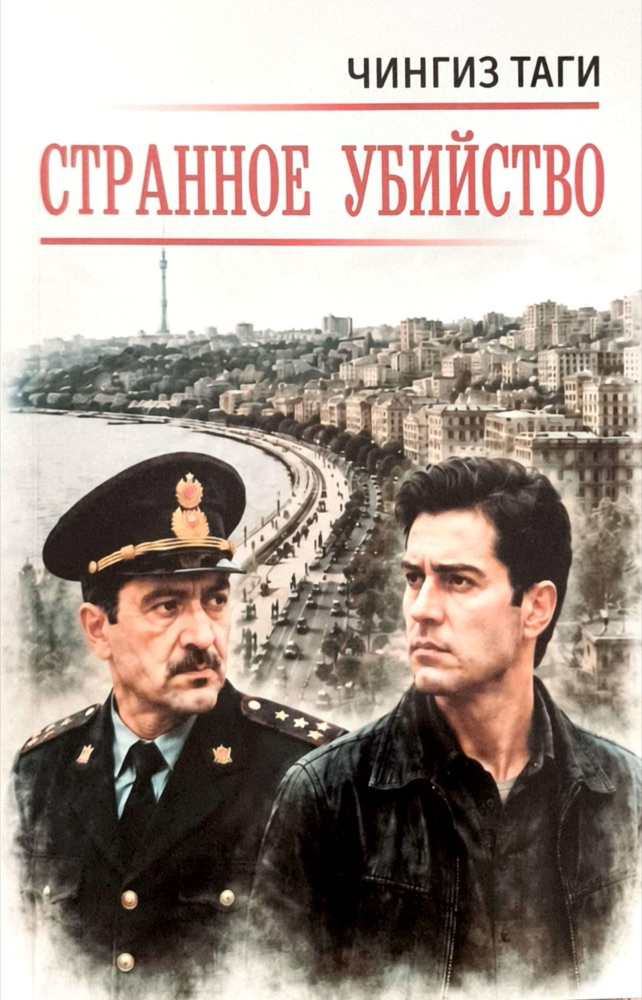
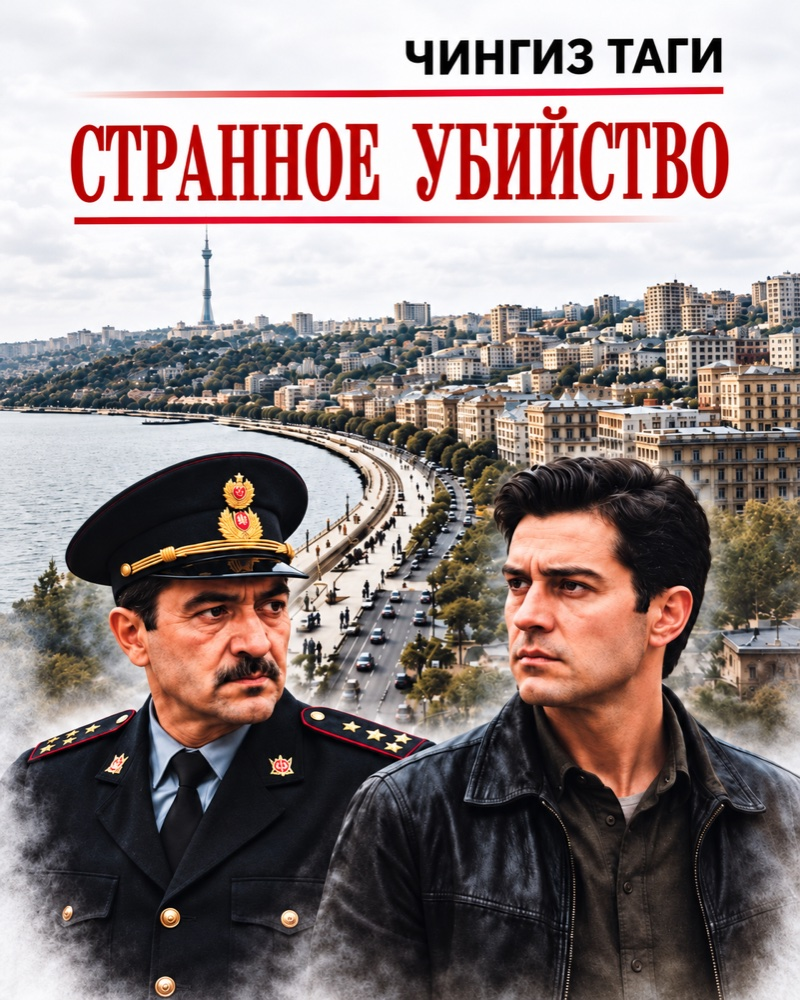
New covers: История одной войны (AZ + RU) and Странное убийство

diff --git a/ru/books/istoriya-odnoy-voyny.html b/ru/books/istoriya-odnoy-voyny.html
@@ -15,7 +15,7 @@
 <meta property="og:description" content="История одной войны — исторический роман, охватывающий период с 1828 года, когда впервые армянские переселенцы прибыли в Азербайджан, по 2023 год. В книге рассказывается о том, как изменилась спокойная жизнь азербайджанского народа с их…">
 <meta property="og:url" content="https://chingiztaghi.netlify.app/ru/books/istoriya-odnoy-voyny">
 <meta property="og:locale" content="ru">
-<meta property="og:image" content="https://chingiztaghi.netlify.app/assets/covers/istoriya-odnoy-voyny-ru.jpg?v=f1bf1bb5">
+<meta property="og:image" content="https://chingiztaghi.netlify.app/assets/covers/istoriya-odnoy-voyny-ru.jpg?v=afbe19a8">
 <meta name="twitter:card" content="summary_large_image">
 <meta name="google-site-verification" content="Zv4KcSWtK4rWaxfy-zp3f7aHRy0XpEZRDrQgy4bXWNc" />
 <link rel="icon" href="../../assets/img/favicon.svg" type="image/svg+xml">
@@ -25,7 +25,7 @@
 <link rel="stylesheet" href="../../assets/css/nocturne.css?v=fa412bc8">
 <link rel="stylesheet" href="../../assets/css/site.css?v=fa412bc8">
 <script src="../../assets/js/carousel.js?v=e8d14b1a" defer></script>
-<script type="application/ld+json">{"@context":"https://schema.org","@type":"Book","name":"История одной войны","genre":"Исторический роман","datePublished":"2024","inLanguage":["az","ru"],"image":"https://chingiztaghi.netlify.app/assets/covers/istoriya-odnoy-voyny-ru.jpg?v=f1bf1bb5","author":{"@type":"Person","name":"Чингиз Таги"}}</script>
+<script type="application/ld+json">{"@context":"https://schema.org","@type":"Book","name":"История одной войны","genre":"Исторический роман","datePublished":"2024","inLanguage":["az","ru"],"image":"https://chingiztaghi.netlify.app/assets/covers/istoriya-odnoy-voyny-ru.jpg?v=afbe19a8","author":{"@type":"Person","name":"Чингиз Таги"}}</script>
 </head>
 <body>
 <header class="site-header">
@@ -50,7 +50,7 @@
 <main>
 <section class="wrap section split">
   <div class="split-media">
-    <div class="book-cover"><img src="../../assets/covers/istoriya-odnoy-voyny-ru.jpg?v=f1bf1bb5" alt="История одной войны"></div>
+    <div class="book-cover"><img src="../../assets/covers/istoriya-odnoy-voyny-ru.jpg?v=afbe19a8" alt="История одной войны"></div>
     <dl class="facts">
             <div class="fact-row"><dt>Год издания</dt><dd>2024</dd></div>
             <div class="fact-row"><dt>Язык</dt><dd>азербайджанский, русский</dd></div>

diff --git a/ru/books/strannoe-ubiystvo.html b/ru/books/strannoe-ubiystvo.html
@@ -15,7 +15,7 @@
 <meta property="og:description" content="Роман «Странное убийство» повествует о тяжёлой судьбе бывшего воина-десантника, прошедшего самые горячие точки войны в Афганистане, а затем попавшего в тюрьму по надуманному обвинению и судебной ошибке. По воле судьбы, бывший десантник, после…">
 <meta property="og:url" content="https://chingiztaghi.netlify.app/ru/books/strannoe-ubiystvo">
 <meta property="og:locale" content="ru">
-<meta property="og:image" content="https://chingiztaghi.netlify.app/assets/covers/strannoe-ubiystvo.jpg?v=efda330e">
+<meta property="og:image" content="https://chingiztaghi.netlify.app/assets/covers/strannoe-ubiystvo.jpg?v=5bb5776b">
 <meta name="twitter:card" content="summary_large_image">
 <meta name="google-site-verification" content="Zv4KcSWtK4rWaxfy-zp3f7aHRy0XpEZRDrQgy4bXWNc" />
 <link rel="icon" href="../../assets/img/favicon.svg" type="image/svg+xml">
@@ -25,7 +25,7 @@
 <link rel="stylesheet" href="../../assets/css/nocturne.css?v=fa412bc8">
 <link rel="stylesheet" href="../../assets/css/site.css?v=fa412bc8">
 <script src="../../assets/js/carousel.js?v=e8d14b1a" defer></script>
-<script type="application/ld+json">{"@context":"https://schema.org","@type":"Book","name":"Странное убийство","genre":"Детективный роман","datePublished":"2026","inLanguage":["ru"],"image":"https://chingiztaghi.netlify.app/assets/covers/strannoe-ubiystvo.jpg?v=efda330e","author":{"@type":"Person","name":"Чингиз Таги"}}</script>
+<script type="application/ld+json">{"@context":"https://schema.org","@type":"Book","name":"Странное убийство","genre":"Детективный роман","datePublished":"2026","inLanguage":["ru"],"image":"https://chingiztaghi.netlify.app/assets/covers/strannoe-ubiystvo.jpg?v=5bb5776b","author":{"@type":"Person","name":"Чингиз Таги"}}</script>
 </head>
 <body>
 <header class="site-header">
@@ -50,7 +50,7 @@
 <main>
 <section class="wrap section split">
   <div class="split-media">
-    <div class="book-cover"><img src="../../assets/covers/strannoe-ubiystvo.jpg?v=efda330e" alt="Странное убийство"></div>
+    <div class="book-cover"><img src="../../assets/covers/strannoe-ubiystvo.jpg?v=5bb5776b" alt="Странное убийство"></div>
     <dl class="facts">
             <div class="fact-row"><dt>Год издания</dt><dd>2026</dd></div>
             <div class="fact-row"><dt>Язык</dt><dd>русский</dd></div>

diff --git a/books/istoriya-odnoy-voyny.html b/books/istoriya-odnoy-voyny.html
@@ -15,7 +15,7 @@
 <meta property="og:description" content="«Bir müharibənin hekayəsi» erməni köçkünlərinin Azərbaycana ilk gəlişi olan 1828-ci ildən 2023-cü ilə qədər olan dövrü əhatə edən tarixi romandır. Kitabda iki yüz ilə yaxın müddət ərzində Azərbaycan xalqının dinc həyatının ermənilərin…">
 <meta property="og:url" content="https://chingiztaghi.netlify.app/books/istoriya-odnoy-voyny">
 <meta property="og:locale" content="az">
-<meta property="og:image" content="https://chingiztaghi.netlify.app/assets/covers/istoriya-odnoy-voyny-az.jpg?v=88686f78">
+<meta property="og:image" content="https://chingiztaghi.netlify.app/assets/covers/istoriya-odnoy-voyny-az.jpg?v=abc6a560">
 <meta name="twitter:card" content="summary_large_image">
 <meta name="google-site-verification" content="Zv4KcSWtK4rWaxfy-zp3f7aHRy0XpEZRDrQgy4bXWNc" />
 <link rel="icon" href="../assets/img/favicon.svg" type="image/svg+xml">
@@ -25,7 +25,7 @@
 <link rel="stylesheet" href="../assets/css/nocturne.css?v=fa412bc8">
 <link rel="stylesheet" href="../assets/css/site.css?v=fa412bc8">
 <script src="../assets/js/carousel.js?v=e8d14b1a" defer></script>
-<script type="application/ld+json">{"@context":"https://schema.org","@type":"Book","name":"Bir müharibənin hekayəsi","genre":"Tarixi roman","datePublished":"2024","inLanguage":["az","ru"],"image":"https://chingiztaghi.netlify.app/assets/covers/istoriya-odnoy-voyny-az.jpg?v=88686f78","author":{"@type":"Person","name":"Çingiz Tağı"}}</script>
+<script type="application/ld+json">{"@context":"https://schema.org","@type":"Book","name":"Bir müharibənin hekayəsi","genre":"Tarixi roman","datePublished":"2024","inLanguage":["az","ru"],"image":"https://chingiztaghi.netlify.app/assets/covers/istoriya-odnoy-voyny-az.jpg?v=abc6a560","author":{"@type":"Person","name":"Çingiz Tağı"}}</script>
 </head>
 <body>
 <header class="site-header">
@@ -50,7 +50,7 @@
 <main>
 <section class="wrap section split">
   <div class="split-media">
-    <div class="book-cover"><img src="../assets/covers/istoriya-odnoy-voyny-az.jpg?v=88686f78" alt="Bir müharibənin hekayəsi"></div>
+    <div class="book-cover"><img src="../assets/covers/istoriya-odnoy-voyny-az.jpg?v=abc6a560" alt="Bir müharibənin hekayəsi"></div>
     <dl class="facts">
             <div class="fact-row"><dt>Nəşr ili</dt><dd>2024</dd></div>
             <div class="fact-row"><dt>Dil</dt><dd>Azərbaycan, Rus</dd></div>

diff --git a/en/books/istoriya-odnoy-voyny.html b/en/books/istoriya-odnoy-voyny.html
@@ -15,7 +15,7 @@
 <meta property="og:description" content="The Story of One War is a historical novel spanning the period from 1828 — when Armenian settlers first arrived in Azerbaijan — to 2023. The book tells of how the peaceful life of the Azerbaijani people changed with their arrival on our lands,…">
 <meta property="og:url" content="https://chingiztaghi.netlify.app/en/books/istoriya-odnoy-voyny">
 <meta property="og:locale" content="en">
-<meta property="og:image" content="https://chingiztaghi.netlify.app/assets/covers/istoriya-odnoy-voyny-ru.jpg?v=f1bf1bb5">
+<meta property="og:image" content="https://chingiztaghi.netlify.app/assets/covers/istoriya-odnoy-voyny-ru.jpg?v=afbe19a8">
 <meta name="twitter:card" content="summary_large_image">
 <meta name="google-site-verification" content="Zv4KcSWtK4rWaxfy-zp3f7aHRy0XpEZRDrQgy4bXWNc" />
 <link rel="icon" href="../../assets/img/favicon.svg" type="image/svg+xml">
@@ -25,7 +25,7 @@
 <link rel="stylesheet" href="../../assets/css/nocturne.css?v=fa412bc8">
 <link rel="stylesheet" href="../../assets/css/site.css?v=fa412bc8">
 <script src="../../assets/js/carousel.js?v=e8d14b1a" defer></script>
-<script type="application/ld+json">{"@context":"https://schema.org","@type":"Book","name":"The Story of One War","genre":"Historical novel","datePublished":"2024","inLanguage":["az","ru"],"image":"https://chingiztaghi.netlify.app/assets/covers/istoriya-odnoy-voyny-ru.jpg?v=f1bf1bb5","author":{"@type":"Person","name":"Chingiz Taghi"}}</script>
+<script type="application/ld+json">{"@context":"https://schema.org","@type":"Book","name":"The Story of One War","genre":"Historical novel","datePublished":"2024","inLanguage":["az","ru"],"image":"https://chingiztaghi.netlify.app/assets/covers/istoriya-odnoy-voyny-ru.jpg?v=afbe19a8","author":{"@type":"Person","name":"Chingiz Taghi"}}</script>
 </head>
 <body>
 <header class="site-header">
@@ -50,7 +50,7 @@
 <main>
 <section class="wrap section split">
   <div class="split-media">
-    <div class="book-cover"><img src="../../assets/covers/istoriya-odnoy-voyny-ru.jpg?v=f1bf1bb5" alt="The Story of One War"></div>
+    <div class="book-cover"><img src="../../assets/covers/istoriya-odnoy-voyny-ru.jpg?v=afbe19a8" alt="The Story of One War"></div>
     <dl class="facts">
             <div class="fact-row"><dt>Year</dt><dd>2024</dd></div>
             <div class="fact-row"><dt>Language</dt><dd>Azerbaijani, Russian</dd></div>

diff --git a/books/strannoe-ubiystvo.html b/books/strannoe-ubiystvo.html
@@ -15,7 +15,7 @@
 <meta property="og:description" content="«Qəribə qətl» romanı Əfqanıstan müharibəsinin ən qızğın nöqtələrində döyüşmüş, sonra isə uydurma ittiham və məhkəmə səhvi üzündən həbsxanaya düşmüş keçmiş desantçı-döyüşçünün ağır taleyindən bəhs edir. Taleyin hökmü ilə, vətənə qayıtdıqdan sonra…">
 <meta property="og:url" content="https://chingiztaghi.netlify.app/books/strannoe-ubiystvo">
 <meta property="og:locale" content="az">
-<meta property="og:image" content="https://chingiztaghi.netlify.app/assets/covers/strannoe-ubiystvo.jpg?v=efda330e">
+<meta property="og:image" content="https://chingiztaghi.netlify.app/assets/covers/strannoe-ubiystvo.jpg?v=5bb5776b">
 <meta name="twitter:card" content="summary_large_image">
 <meta name="google-site-verification" content="Zv4KcSWtK4rWaxfy-zp3f7aHRy0XpEZRDrQgy4bXWNc" />
 <link rel="icon" href="../assets/img/favicon.svg" type="image/svg+xml">
@@ -25,7 +25,7 @@
 <link rel="stylesheet" href="../assets/css/nocturne.css?v=fa412bc8">
 <link rel="stylesheet" href="../assets/css/site.css?v=fa412bc8">
 <script src="../assets/js/carousel.js?v=e8d14b1a" defer></script>
-<script type="application/ld+json">{"@context":"https://schema.org","@type":"Book","name":"Qəribə qətl","genre":"Detektiv roman","datePublished":"2026","inLanguage":["ru"],"image":"https://chingiztaghi.netlify.app/assets/covers/strannoe-ubiystvo.jpg?v=efda330e","author":{"@type":"Person","name":"Çingiz Tağı"}}</script>
+<script type="application/ld+json">{"@context":"https://schema.org","@type":"Book","name":"Qəribə qətl","genre":"Detektiv roman","datePublished":"2026","inLanguage":["ru"],"image":"https://chingiztaghi.netlify.app/assets/covers/strannoe-ubiystvo.jpg?v=5bb5776b","author":{"@type":"Person","name":"Çingiz Tağı"}}</script>
 </head>
 <body>
 <header class="site-header">
@@ -50,7 +50,7 @@
 <main>
 <section class="wrap section split">
   <div class="split-media">
-    <div class="book-cover"><img src="../assets/covers/strannoe-ubiystvo.jpg?v=efda330e" alt="Qəribə qətl"></div>
+    <div class="book-cover"><img src="../assets/covers/strannoe-ubiystvo.jpg?v=5bb5776b" alt="Qəribə qətl"></div>
     <dl class="facts">
             <div class="fact-row"><dt>Nəşr ili</dt><dd>2026</dd></div>
             <div class="fact-row"><dt>Dil</dt><dd>Rus</dd></div>

diff --git a/en/books/strannoe-ubiystvo.html b/en/books/strannoe-ubiystvo.html
@@ -15,7 +15,7 @@
 <meta property="og:description" content="The novel A Strange Murder tells of the hard fate of a former paratrooper who served in the hottest spots of the war in Afghanistan and who was later imprisoned on a trumped-up charge due to a judicial error. By the will of fate, after returning…">
 <meta property="og:url" content="https://chingiztaghi.netlify.app/en/books/strannoe-ubiystvo">
 <meta property="og:locale" content="en">
-<meta property="og:image" content="https://chingiztaghi.netlify.app/assets/covers/strannoe-ubiystvo.jpg?v=efda330e">
+<meta property="og:image" content="https://chingiztaghi.netlify.app/assets/covers/strannoe-ubiystvo.jpg?v=5bb5776b">
 <meta name="twitter:card" content="summary_large_image">
 <meta name="google-site-verification" content="Zv4KcSWtK4rWaxfy-zp3f7aHRy0XpEZRDrQgy4bXWNc" />
 <link rel="icon" href="../../assets/img/favicon.svg" type="image/svg+xml">
@@ -25,7 +25,7 @@
 <link rel="stylesheet" href="../../assets/css/nocturne.css?v=fa412bc8">
 <link rel="stylesheet" href="../../assets/css/site.css?v=fa412bc8">
 <script src="../../assets/js/carousel.js?v=e8d14b1a" defer></script>
-<script type="application/ld+json">{"@context":"https://schema.org","@type":"Book","name":"A Strange Murder","genre":"Detective novel","datePublished":"2026","inLanguage":["ru"],"image":"https://chingiztaghi.netlify.app/assets/covers/strannoe-ubiystvo.jpg?v=efda330e","author":{"@type":"Person","name":"Chingiz Taghi"}}</script>
+<script type="application/ld+json">{"@context":"https://schema.org","@type":"Book","name":"A Strange Murder","genre":"Detective novel","datePublished":"2026","inLanguage":["ru"],"image":"https://chingiztaghi.netlify.app/assets/covers/strannoe-ubiystvo.jpg?v=5bb5776b","author":{"@type":"Person","name":"Chingiz Taghi"}}</script>
 </head>
 <body>
 <header class="site-header">
@@ -50,7 +50,7 @@
 <main>
 <section class="wrap section split">
   <div class="split-media">
-    <div class="book-cover"><img src="../../assets/covers/strannoe-ubiystvo.jpg?v=efda330e" alt="A Strange Murder"></div>
+    <div class="book-cover"><img src="../../assets/covers/strannoe-ubiystvo.jpg?v=5bb5776b" alt="A Strange Murder"></div>
     <dl class="facts">
             <div class="fact-row"><dt>Year</dt><dd>2026</dd></div>
             <div class="fact-row"><dt>Language</dt><dd>Russian</dd></div>

diff --git a/ru/books.html b/ru/books.html
@@ -67,7 +67,7 @@
               </div>
             </article>
           <article class="book-card book-card-lg reveal">
-              <div class="book-cover"><img src="../assets/covers/strannoe-ubiystvo.jpg?v=efda330e" alt="Странное убийство — Детективный роман" loading="lazy"></div>
+              <div class="book-cover"><img src="../assets/covers/strannoe-ubiystvo.jpg?v=5bb5776b" alt="Странное убийство — Детективный роман" loading="lazy"></div>
               <div class="book-body">
                 <span class="tag tag-outline">Детективный роман</span>
                 <h3>Странное убийство</h3>
@@ -106,7 +106,7 @@
               </div>
             </article>
           <article class="book-card book-card-lg reveal">
-              <div class="book-cover"><img src="../assets/covers/istoriya-odnoy-voyny-ru.jpg?v=f1bf1bb5" alt="История одной войны — Исторический роман" loading="lazy"></div>
+              <div class="book-cover"><img src="../assets/covers/istoriya-odnoy-voyny-ru.jpg?v=afbe19a8" alt="История одной войны — Исторический роман" loading="lazy"></div>
               <div class="book-body">
                 <span class="tag tag-outline">Исторический роман</span>
                 <h3>История одной войны</h3>

diff --git a/en/books.html b/en/books.html
@@ -67,7 +67,7 @@
               </div>
             </article>
           <article class="book-card book-card-lg reveal">
-              <div class="book-cover"><img src="../assets/covers/strannoe-ubiystvo.jpg?v=efda330e" alt="A Strange Murder — Detective novel" loading="lazy"></div>
+              <div class="book-cover"><img src="../assets/covers/strannoe-ubiystvo.jpg?v=5bb5776b" alt="A Strange Murder — Detective novel" loading="lazy"></div>
               <div class="book-body">
                 <span class="tag tag-outline">Detective novel</span>
                 <h3>A Strange Murder</h3>
@@ -106,7 +106,7 @@
               </div>
             </article>
           <article class="book-card book-card-lg reveal">
-              <div class="book-cover"><img src="../assets/covers/istoriya-odnoy-voyny-ru.jpg?v=f1bf1bb5" alt="The Story of One War — Historical novel" loading="lazy"></div>
+              <div class="book-cover"><img src="../assets/covers/istoriya-odnoy-voyny-ru.jpg?v=afbe19a8" alt="The Story of One War — Historical novel" loading="lazy"></div>
               <div class="book-body">
                 <span class="tag tag-outline">Historical novel</span>
                 <h3>The Story of One War</h3>

diff --git a/books.html b/books.html
@@ -67,7 +67,7 @@
               </div>
             </article>
           <article class="book-card book-card-lg reveal">
-              <div class="book-cover"><img src="assets/covers/strannoe-ubiystvo.jpg?v=efda330e" alt="Qəribə qətl — Detektiv roman" loading="lazy"></div>
+              <div class="book-cover"><img src="assets/covers/strannoe-ubiystvo.jpg?v=5bb5776b" alt="Qəribə qətl — Detektiv roman" loading="lazy"></div>
               <div class="book-body">
                 <span class="tag tag-outline">Detektiv roman</span>
                 <h3>Qəribə qətl</h3>
@@ -106,7 +106,7 @@
               </div>
             </article>
           <article class="book-card book-card-lg reveal">
-              <div class="book-cover"><img src="assets/covers/istoriya-odnoy-voyny-az.jpg?v=88686f78" alt="Bir müharibənin hekayəsi — Tarixi roman" loading="lazy"></div>
+              <div class="book-cover"><img src="assets/covers/istoriya-odnoy-voyny-az.jpg?v=abc6a560" alt="Bir müharibənin hekayəsi — Tarixi roman" loading="lazy"></div>
               <div class="book-body">
                 <span class="tag tag-outline">Tarixi roman</span>
                 <h3>Bir müharibənin hekayəsi</h3>

diff --git a/ru/index.html b/ru/index.html
@@ -119,7 +119,7 @@
               </div>
             </article>
             <article class="book-card reveal">
-              <div class="book-cover"><img src="../assets/covers/strannoe-ubiystvo.jpg?v=efda330e" alt="Странное убийство — Детективный роман" loading="lazy"></div>
+              <div class="book-cover"><img src="../assets/covers/strannoe-ubiystvo.jpg?v=5bb5776b" alt="Странное убийство — Детективный роман" loading="lazy"></div>
               <div class="book-body">
                 <span class="tag tag-outline">Детективный роман</span>
                 <h3>Странное убийство</h3>

diff --git a/en/index.html b/en/index.html
@@ -119,7 +119,7 @@
               </div>
             </article>
             <article class="book-card reveal">
-              <div class="book-cover"><img src="../assets/covers/strannoe-ubiystvo.jpg?v=efda330e" alt="A Strange Murder — Detective novel" loading="lazy"></div>
+              <div class="book-cover"><img src="../assets/covers/strannoe-ubiystvo.jpg?v=5bb5776b" alt="A Strange Murder — Detective novel" loading="lazy"></div>
               <div class="book-body">
                 <span class="tag tag-outline">Detective novel</span>
                 <h3>A Strange Murder</h3>

diff --git a/index.html b/index.html
@@ -119,7 +119,7 @@
               </div>
             </article>
             <article class="book-card reveal">
-              <div class="book-cover"><img src="assets/covers/strannoe-ubiystvo.jpg?v=efda330e" alt="Qəribə qətl — Detektiv roman" loading="lazy"></div>
+              <div class="book-cover"><img src="assets/covers/strannoe-ubiystvo.jpg?v=5bb5776b" alt="Qəribə qətl — Detektiv roman" loading="lazy"></div>
               <div class="book-body">
                 <span class="tag tag-outline">Detektiv roman</span>
                 <h3>Qəribə qətl</h3>
